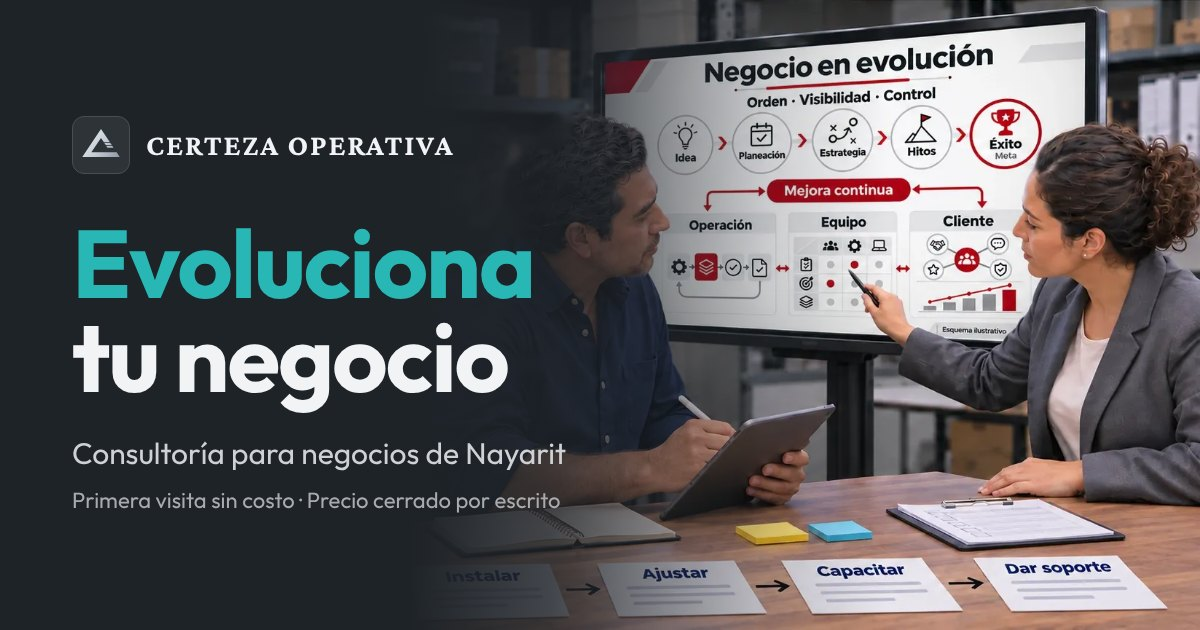
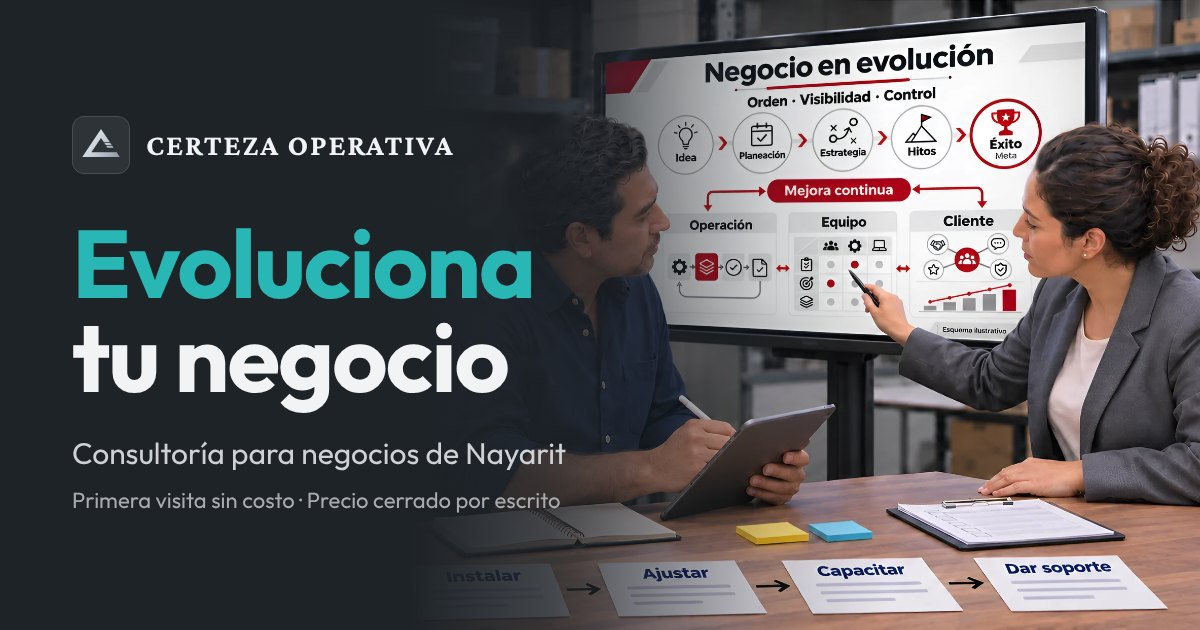
Foto del encabezado más nítida: ampliada x2 con Real-ESRGAN y exportada a 2400 px
- La foto de 1672 px se veía borrosa en pantallas grandes. Se amplió x2 con
  Real-ESRGAN (limpia también la compresión) y se exportó a 2400 px (177 KB)
  para escritorio y 1200 px (61 KB) para celular; srcset y tamaño declarado
  actualizados (2400×1242).
- Imagen para compartir (portada-v2.jpg) regenerada con la foto nueva.

Claude-Session: https://claude.ai/code/session_01UwYARog3KbigybZZJQPyiK

diff --git a/index.html b/index.html
@@ -50,7 +50,7 @@
 <main id="contenido">
 
 <section class="oscuro hero" aria-labelledby="t-hero">
-  <img class="hero-foto" src="assets/encabezado.webp" srcset="assets/encabezado-1200.webp 1200w, assets/encabezado.webp 1672w" sizes="100vw" width="1672" height="865" fetchpriority="high" alt="Dos personas revisan en un monitor un esquema de las etapas de un negocio: orden, visibilidad, control y mejora continua.">
+  <img class="hero-foto" src="assets/encabezado.webp" srcset="assets/encabezado-1200.webp 1200w, assets/encabezado.webp 2400w" sizes="100vw" width="2400" height="1242" fetchpriority="high" alt="Dos personas revisan en un monitor un esquema de las etapas de un negocio: orden, visibilidad, control y mejora continua.">
   <div class="wrap">
     <div class="hero-txt">
       <p class="kicker anim" style="--i:0">Para negocios de 2 a 250 trabajadores.</p>

diff --git a/_fuente/construir.py b/_fuente/construir.py
@@ -215,7 +215,7 @@ def inicio(base):
            ('¿Atienden fuera de Tepic?', 'Atendemos negocios de Nayarit por WhatsApp; la visita se acuerda en la primera plática.')]
     return f'''
 <section class="oscuro hero" aria-labelledby="t-hero">
-  <img class="hero-foto" src="{base}assets/encabezado.webp" srcset="{base}assets/encabezado-1200.webp 1200w, {base}assets/encabezado.webp 1672w" sizes="100vw" width="1672" height="865" fetchpriority="high" alt="Dos personas revisan en un monitor un esquema de las etapas de un negocio: orden, visibilidad, control y mejora continua.">
+  <img class="hero-foto" src="{base}assets/encabezado.webp" srcset="{base}assets/encabezado-1200.webp 1200w, {base}assets/encabezado.webp 2400w" sizes="100vw" width="2400" height="1242" fetchpriority="high" alt="Dos personas revisan en un monitor un esquema de las etapas de un negocio: orden, visibilidad, control y mejora continua.">
   <div class="wrap">
     <div class="hero-txt">
       <p class="kicker anim" style="--i:0">Para negocios de 2 a 250 trabajadores.</p>
